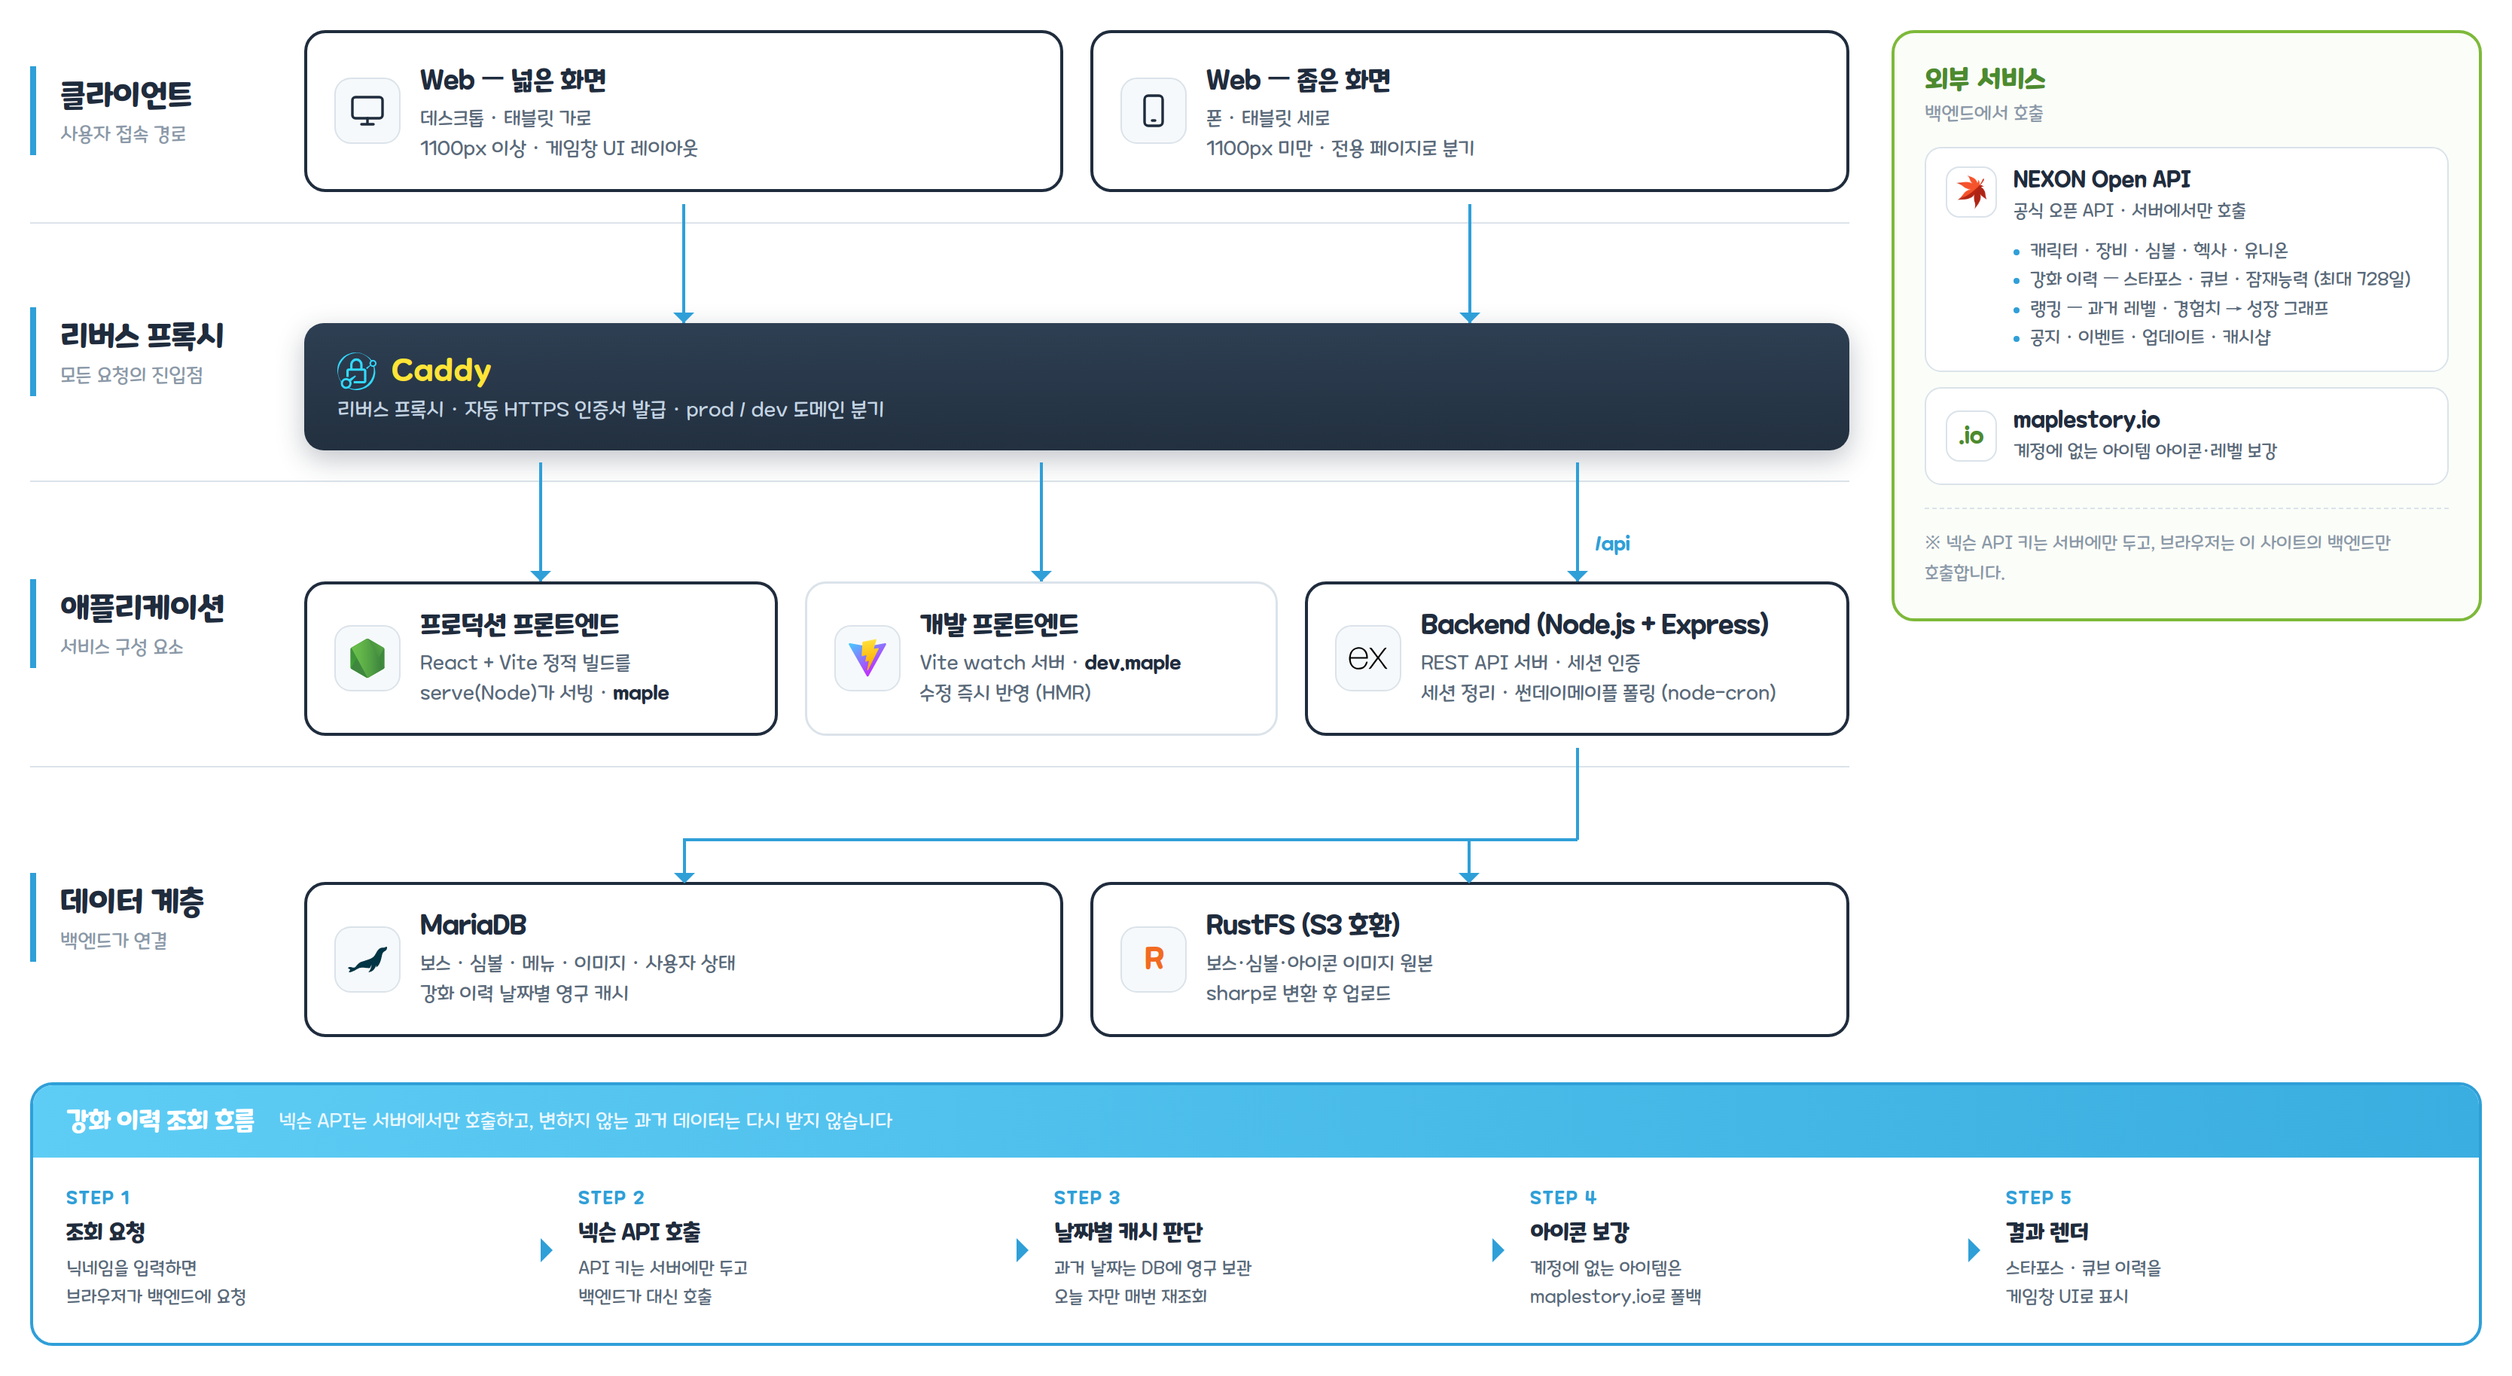
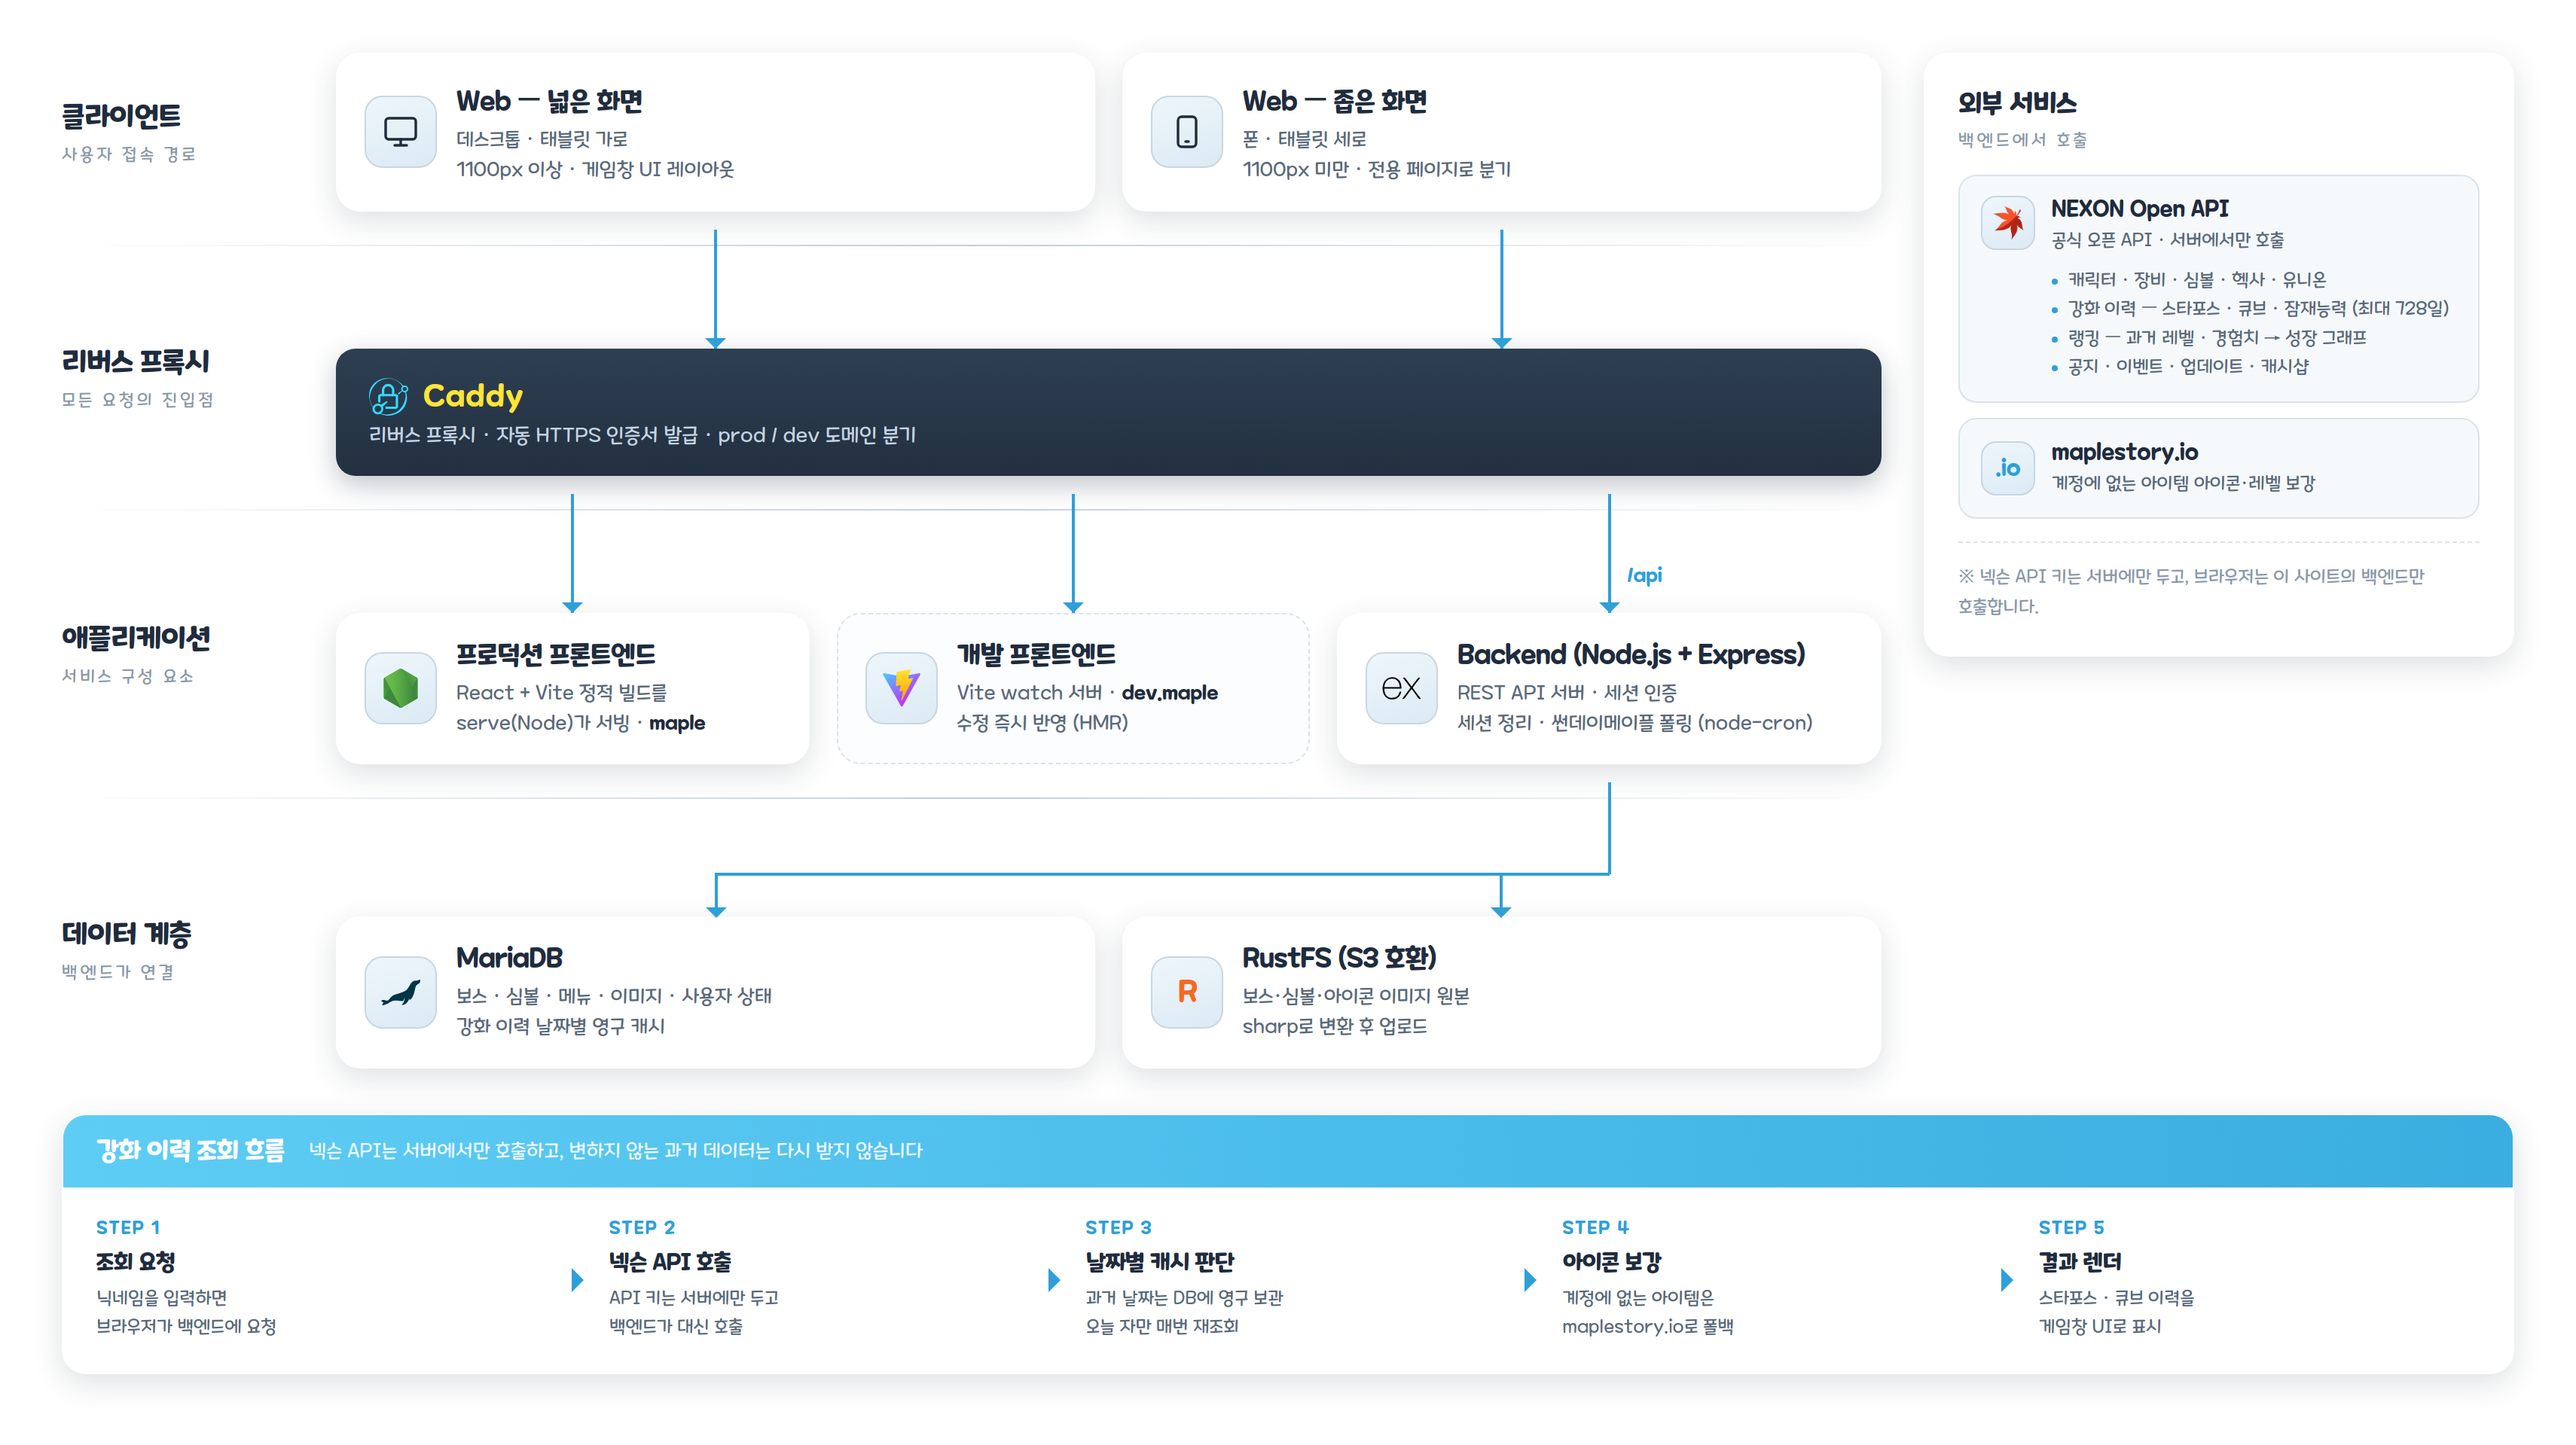
docs: 구조도 디자인을 사이트 실제 토큰에 맞춤
frontend/src/index.css의 값을 그대로 적용해 사이트와 같은 결로 정리.
- 카드: 진한 2px 잉크 테두리 → 사이트 홈 카드와 동일한 반투명 흰 테두리 +
  소프트 섀도우(0 6px 20px rgba(31,44,61,.15)) + rounded-2xl
- 아이콘 타일: 단색 → 사이트의 그라디언트(#eef6fb→#dceaf4) + #c9d6e0 테두리
- 레인 구분선: 실선 → 사이트 섹션 디바이더의 좌우 페이드 hairline
- 레인 부제: 사이트 섹션 라벨처럼 uppercase + tracking, --text-dim 색
- 사이트에 없는 라임 강조 제거 (패널 제목은 잉크, .io 마크는 스카이 액센트)

Claude-Session: https://claude.ai/code/session_011K1GDZufi9XzbNZSQFJ7js

diff --git a/docs/images/architecture.html b/docs/images/architecture.html
@@ -18,6 +18,10 @@
   --slate-from:#5a7188; --slate-to:#46596e;
   --ink:#1f2c3d; --muted:#5a6a7a; --dim:#8b99a8;
   --card:#fff; --line:#dbe3ea; --row:#f6f9fb;
+  /* 사이트 홈 카드 토큰 */
+  --card-border:rgba(255,255,255,.65); --card-shadow:0 6px 20px rgba(31,44,61,.15);
+  --icon-from:#eef6fb; --icon-to:#dceaf4; --icon-border:#c9d6e0;
+  --divider:#8fa8bc; --dim2:#8b99a8;
 }
 *{margin:0;padding:0;box-sizing:border-box}
 body{
@@ -32,17 +36,20 @@ body{
 
 /* ── 레인 ── */
 .lane{display:grid;grid-template-columns:158px 1fr;gap:24px;align-items:center}
-.lane-label{padding:6px 0 6px 16px;border-left:4px solid var(--accent)}
-.lane-label .t{font-size:21px;font-weight:700;letter-spacing:-.3px}
-.lane-label .s{font-size:13px;color:var(--dim);margin-top:5px}
-.hr{height:1px;background:var(--line);margin:20px 0}
+.lane-label{padding:2px 0}
+.lane-label .t{font-size:19px;font-weight:700;letter-spacing:-.3px;color:var(--ink)}
+.lane-label .s{font-size:11.5px;color:var(--dim2);margin-top:6px;
+  text-transform:uppercase;letter-spacing:.16em}
+.hr{height:1px;margin:22px 0;
+  background-image:linear-gradient(to right,transparent,var(--divider),transparent);opacity:.55}
 
 .grid{display:grid;gap:18px}
-.box{background:var(--card);border:2px solid var(--ink);border-radius:14px;
+.box{background:var(--card);border:1px solid var(--card-border);border-radius:16px;box-shadow:var(--card-shadow);
   padding:16px 18px;display:flex;align-items:center;gap:13px;min-height:92px}
-.box.soft{border:1.5px solid var(--line)}
-.ic{width:44px;height:44px;border-radius:11px;flex:none;display:flex;align-items:center;
-  justify-content:center;background:var(--row);border:1px solid var(--line)}
+.box.soft{border:1px dashed var(--line);box-shadow:none;background:#fbfdff}
+.ic{width:48px;height:48px;border-radius:12px;flex:none;display:flex;align-items:center;
+  justify-content:center;background:linear-gradient(160deg,var(--icon-from),var(--icon-to));
+  border:1px solid var(--icon-border)}
 .ic img{width:26px;height:26px;object-fit:contain}
 .ic .mark{font-size:20px;font-weight:700;letter-spacing:-1px}
 .n{font-size:17.5px;font-weight:700;letter-spacing:-.3px}
@@ -75,7 +82,8 @@ body{
 
 
 /* ── 흐름 스트립 ── */
-.flow{margin-top:30px;border:2px solid var(--accent);border-radius:15px;background:#fff;overflow:hidden}
+.flow{margin-top:30px;border:1px solid var(--card-border);border-radius:16px;background:#fff;
+  overflow:hidden;box-shadow:var(--card-shadow)}
 .flow-h{display:flex;align-items:center;gap:16px;
   background:linear-gradient(90deg,var(--sky-from),var(--sky-to));padding:13px 22px}
 .flow-h .ft{font-size:17px;font-weight:700;color:#fff;letter-spacing:-.3px}
@@ -90,16 +98,18 @@ body{
 .st .sd{font-size:12px;color:var(--muted);margin-top:5px;line-height:1.6;word-break:keep-all}
 
 /* ── 외부 서비스 ── */
-.ext{border:2px solid var(--lime-to);border-radius:15px;padding:20px;background:#fbfdf8}
-.ext-h{font-size:18px;font-weight:700;color:#4c8a2f}
-.ext-s{font-size:12.5px;color:var(--dim);margin:4px 0 15px}
-.xi{background:#fff;border:1px solid var(--line);border-radius:11px;padding:12px 13px;
+.ext{border:1px solid var(--card-border);border-radius:16px;padding:22px;background:#fff;
+  box-shadow:var(--card-shadow)}
+.ext-h{font-size:18px;font-weight:700;color:var(--ink);letter-spacing:-.3px}
+.ext-s{font-size:11.5px;color:var(--dim2);margin:6px 0 16px;text-transform:uppercase;letter-spacing:.16em}
+.xi{background:var(--row);border:1px solid var(--line);border-radius:12px;padding:13px 14px;
   display:flex;gap:11px;align-items:center}
 .xi + .xi{margin-top:10px}
 .xi .xn{font-size:14.5px;font-weight:700}
 .xi .xd{font-size:12px;color:var(--muted);margin-top:3px;line-height:1.45;word-break:keep-all}
-.xic{width:34px;height:34px;border-radius:9px;flex:none;display:flex;align-items:center;
-  justify-content:center;background:#fff;border:1px solid var(--line)}
+.xic{width:36px;height:36px;border-radius:10px;flex:none;display:flex;align-items:center;
+  justify-content:center;background:linear-gradient(160deg,var(--icon-from),var(--icon-to));
+  border:1px solid var(--icon-border)}
 .xic img{width:22px;height:22px;object-fit:contain}
 .ep{list-style:none;margin:8px 0 0;padding:0}
 .ep li{font-size:12px;color:var(--muted);line-height:1.6;padding-left:11px;position:relative;word-break:keep-all}
@@ -216,7 +226,7 @@ body{
         </div>
       </div>
       <div class="xi">
-        <div class="xic"><span style="font-size:15px;font-weight:700;color:#4c8a2f">.io</span></div>
+        <div class="xic"><span style="font-size:15px;font-weight:700;color:var(--accent)">.io</span></div>
         <div><div class="xn">maplestory.io</div><div class="xd">계정에 없는 아이템 아이콘·레벨 보강</div></div>
       </div>
       <div class="note">※ 넥슨 API 키는 서버에만 두고, 브라우저는 이 사이트의 백엔드만 호출합니다.</div>
